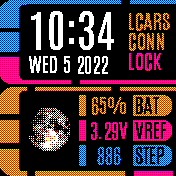
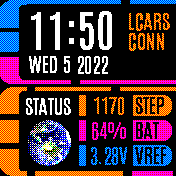
Minor changes

diff --git a/apps/lcars/lcars.app.js b/apps/lcars/lcars.app.js
@@ -195,12 +195,13 @@ function drawState(){
   }
 
   g.clearRect(20, 93, 75, 170);
-  g.setColor(cWhite);
-  var bat = E.getBattery();
-  var current = new Date();
-  var hours = current.getHours();
+  g.setFontAlign(0, 0, 0);
+  g.setFontAntonioMedium();
 
   if(!isAlarmEnabled()){
+    var bat = E.getBattery();
+    var current = new Date();
+    var hours = current.getHours();
     var iconImg =
         Bangle.isCharging() ? iconCharging :
         bat < 30 ? iconNoBattery :
@@ -209,18 +210,16 @@ function drawState(){
         hours % 4 == 1 ? iconMars :
         hours % 4 == 2 ? iconMoon :
         iconEarth;
-
-    // g.drawRect(25, 104, 25+50, 104+50);
-    g.drawImage(iconImg, 24, 104);
+    g.drawImage(iconImg, 23, 118);
+    g.setColor(cWhite);
+    g.drawString("STATUS", 23+25, 108);
   } else {
     // Alarm within symbol
-    g.setFontAntonioMedium();
-    g.setFontAlign(0, 0, 0);
     g.setColor(cOrange);
-    g.drawString("ALARM", 24+25, 108);
+    g.drawString("ALARM", 23+25, 108);
     g.setColor(cWhite);
     g.setFontAntonioLarge();
-    g.drawString(getAlarmMinutes(), 24+25, 108+35);
+    g.drawString(getAlarmMinutes(), 23+25, 108+35);
   }
 
   g.setFontAlign(-1, -1, 0);
